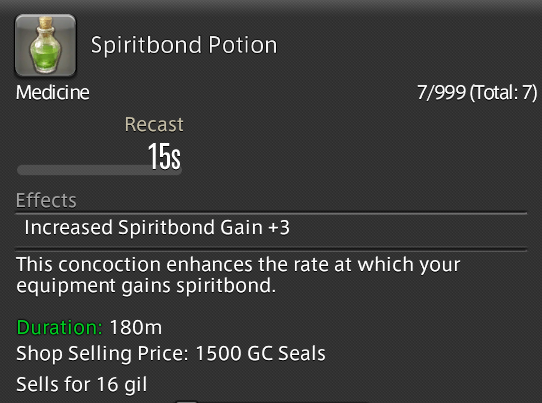
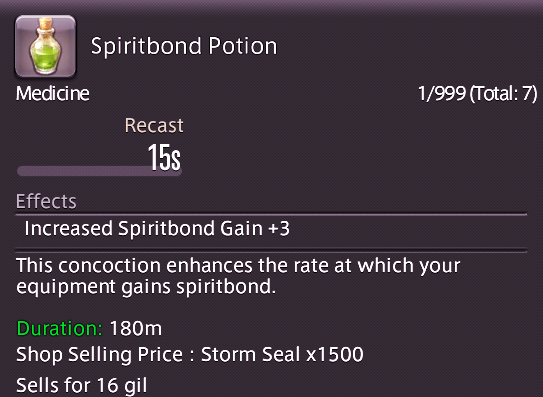
Update Readme

diff --git a/README.md b/README.md
@@ -1,14 +1,16 @@
 # ItemVendorLocation
 Adds a context menu to find vendor locations for items that can be purchased from a vendor.
 
-This plugin uses [Garland Tools](https://garlandtools.org/) as it's source of information.
+The plugin can use one of two possible data sources:
+1. [Garland Tools](https://garlandtools.org/) as it's source of information (slow, hoping to deprecate)
+2. Internal Data sheets (fast)
 
 The plugin provides the following indicators to know if an item is sold by a vendor:
 1. The game indicates the shop selling price without any plugins
 
 ![Alt text](/Images/GilVendor.png?raw=true "Item Sold for Gil")
 
-2. If the plugin determines an item is sold by a GC vendor, the item's popup will show the price in GC Seals
+2. If the plugin determines an item is sold by a GC vendor, the item's popup will show the price in your GC's currency
 
 ![Alt text](/Images/GCVendor.png?raw=true "Item Sold for GC Seals")
 
